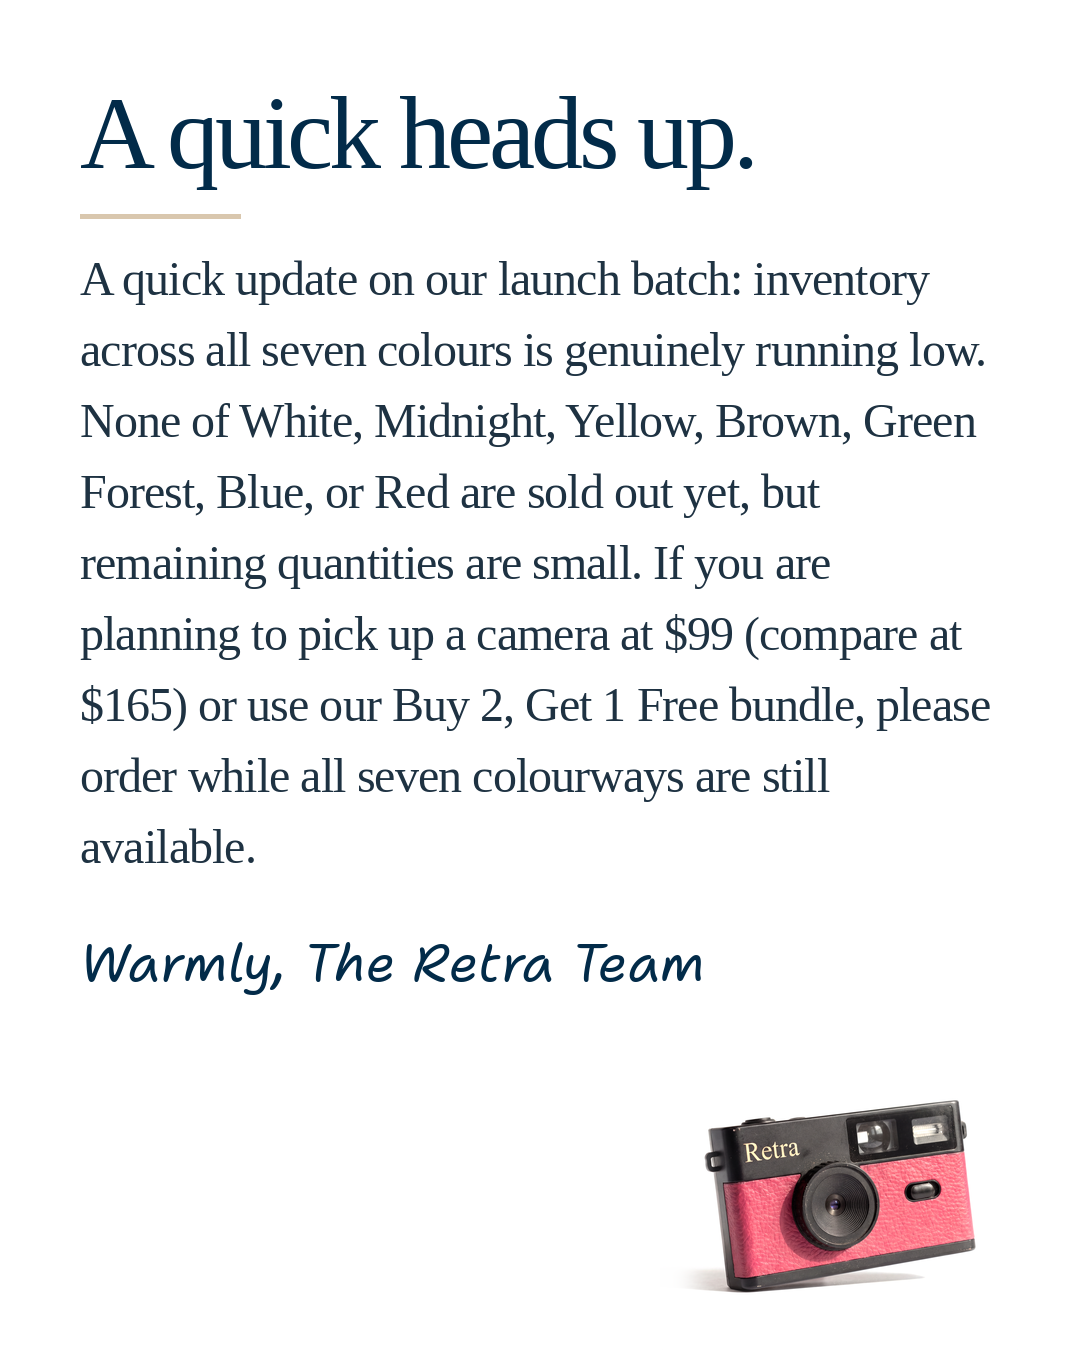
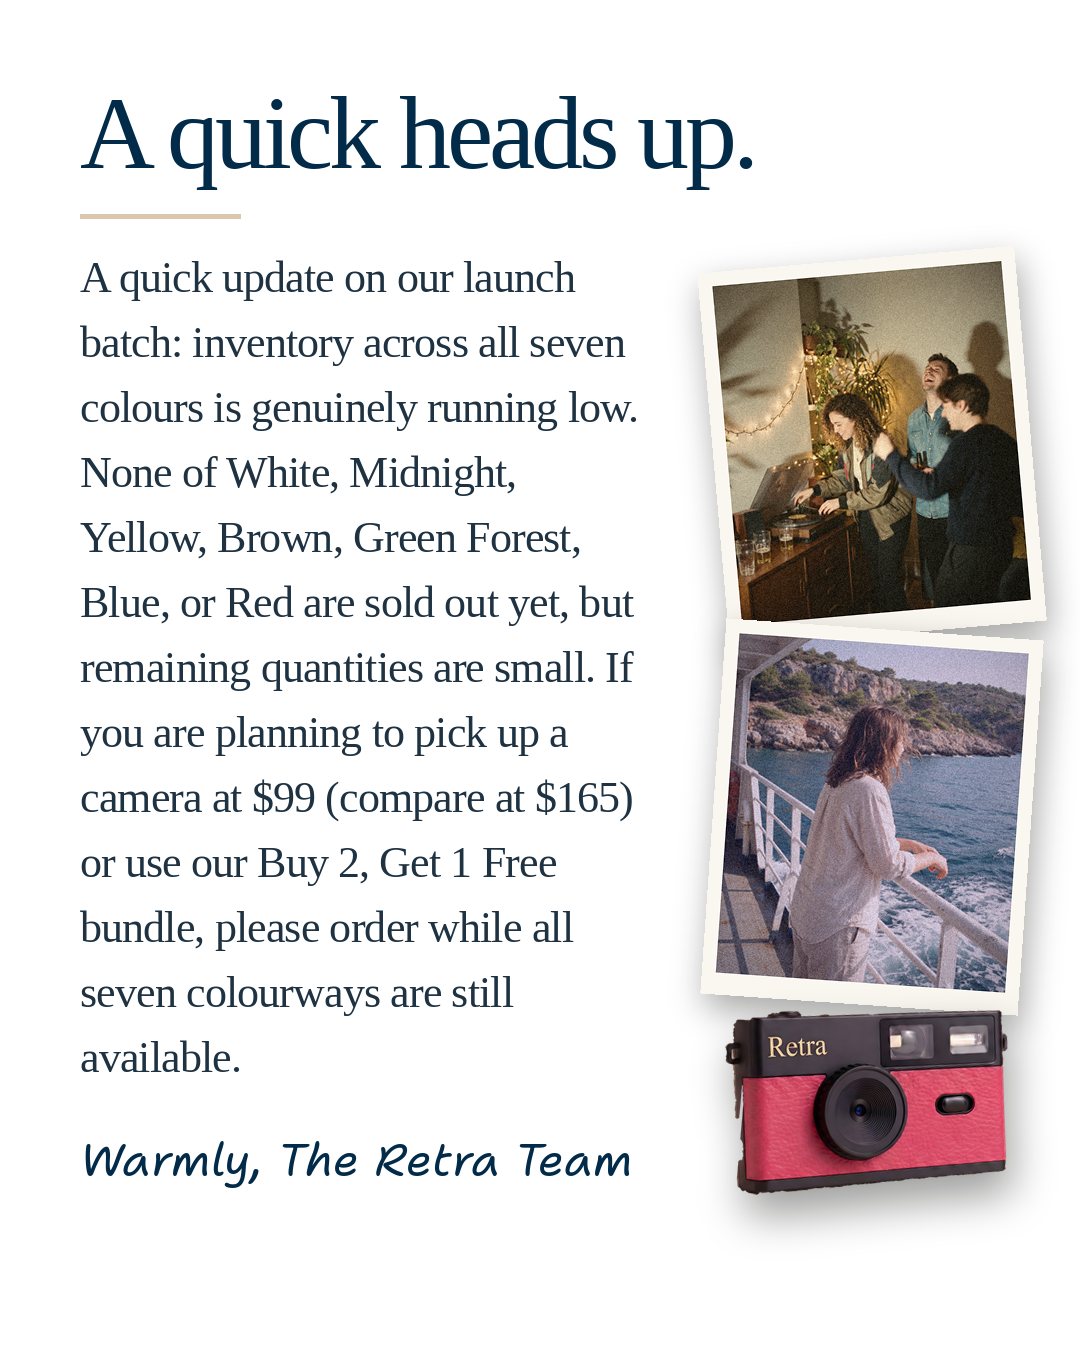
Retra W49: side sample prints on letters 15/50, printed photos + screen-free headline on 34, camera centred on D2
Claude-Session: https://claude.ai/code/session_01Mp8pTs9zpTh5aGe4znSQmT

diff --git a/ads/brands/retra/weeks/2026-W49-angles/b2.py b/ads/brands/retra/weeks/2026-W49-angles/b2.py
@@ -16,7 +16,7 @@ from scenes import tiktok_caption
 
 HERE = Path(__file__).resolve().parent
 COPY.update({c["id"]: c for c in json.load(open(HERE / "copy_b2.json"))["concepts"]})
-PICK = {"s30a": "s30a_t2", "s32": "s32_t2", "s36": "s36_t3", "s42a": "s42a_t2", "s56a": "s56a_t2"}
+PICK = {"s34": "s34b_t1", "s30a": "s30a_t2", "s32": "s32_t2", "s36": "s36_t3", "s42a": "s42a_t2", "s56a": "s56a_t2"}
 WARM = (247, 240, 226)
 
 
@@ -260,24 +260,30 @@ def b59(c):
 
 
 # ---------------------------------------------------------------- white layouts with product photos
-def letter(c, title_k, body_k, close_k, product_name):
+def letter(c, title_k, body_k, close_k, product_name, side=False):
+    from layouts import side_column
     img = canvas(WHITE)
     y = head(img, S(c, title_k), 350, INK, 92, 60, 2, x=80, w=920, align="left")
     ImageDraw.Draw(img).line([(80, y + 14), (240, y + 14)], fill=SAND, width=5)
     y += 50
+    top = int(y)
+    TW = 560 if side else 920
     body = S(c, body_k)
     size = 46
-    while size > 28:
+    while size > 26:
         f = tinos(size, -0.02)
-        need = len(wrap(body, f, 920)) * sum(f.getmetrics()) * 1.32
-        if y + need < 1320:
+        need = len(wrap(body, f, TW)) * sum(f.getmetrics()) * 1.3
+        if y + need < (1500 if side else 1320):
             break
         size -= 1
     f = tinos(size, -0.02)
-    y = draw_lines(img, wrap(body, f, 920), f, 80, y, (30, 50, 66), "left", 1.32, None, 920)
+    y = draw_lines(img, wrap(body, f, TW), f, 80, y, (30, 50, 66), "left", 1.3, None, TW)
     if close_k:
-        draw_lines(img, [S(c, close_k)], shantell(48), 80, y + 24, INK, "left", 1.0, None, 700)
-    prod(img, product_name, 340, W - 230, 1500)
+        draw_lines(img, [S(c, close_k)], shantell(46 if side else 48), 80, y + 24, INK, "left", 1.0, None, TW)
+    if side:
+        side_column(img, top - 10, product_name.replace("p34_", ""))
+    else:
+        prod(img, product_name, 340, W - 230, 1500)
     return img
 
 
@@ -290,7 +296,7 @@ def b44(c):
 
 
 def b50(c):
-    return letter(c, "title", "body", "signoff", "p34_blossom")
+    return letter(c, "title", "body", "signoff", "p34_sol", side=True)
 
 
 def b24(c):
@@ -427,7 +433,7 @@ def b34(c):
     img = canvas(WHITE)
     y = head(img, S(c, "headline"), 350, INK, 96, 62, 2)
     sub(img, S(c, "sub"), y + 10)
-    photo(img, "s34", (90, 760, 990, 1560), (0.55, 0.5), 28)
+    photo(img, "s34", (90, 740, 990, 1580), (0.5, 0.9), 28)
     return img
 
 

diff --git a/ads/brands/retra/weeks/2026-W49-angles/layouts.py b/ads/brands/retra/weeks/2026-W49-angles/layouts.py
@@ -96,6 +96,15 @@ def film_print(key, look, size, crop=None):
     return card
 
 
+def side_column(img, top, colour, cx=872):
+    """Sam: 'what it would look like if they got a Retra' - two tilted sample prints in Retra looks, camera below."""
+    prints = [("party", "Vintage", 5, top + 205), ("ferry", "Film", -4, top + 575)]
+    for key, look, rot, cy in prints:
+        card = film_print(key, look, (290, 340)).rotate(rot, Image.BICUBIC, expand=True)
+        place(img, card, cx, cy, shadow=0.35, blur=16, drop=(4, 14))
+    place(img, cam(colour, 290, -5), cx - 6, min(top + 860, 1500), shadow=0.4, blur=20, drop=(6, 22))
+    lib.TEXT_BOXES.append((cx - 180, top, cx + 180, top + 960))
+
 def a02(cid):
     img = paper((44, 33, 26), seed=2, amt=3)
     # warm smoky glow
@@ -289,26 +298,27 @@ def a14(cid):
 def a15(cid):
     img = canvas(WHITE)
     d = ImageDraw.Draw(img)
+    TW = 560  # text column; the right column shows sample prints + the camera
     y = text_block(img, S(cid, "title", "We're sorry."), lambda s: tinos(s, -0.04), 80, 360, 920, 2, 104, 70, INK)
     d.line([(80, y + 14), (240, y + 14)], fill=SAND, width=5)
     y += 50
+    top = int(y)
     body = S(cid, "body", "Body copy here.")
     paras = [p.strip() for p in body.split("\n") if p.strip()]
     fb = lambda s: tinos(s, -0.02)
-    size = 48
-    while size > 28:  # one size for every paragraph so the block fits above the product
+    size = 44
+    while size > 26:  # one size for every paragraph so the block fits above the sign-off
         f = fb(size)
-        need = sum(len(wrap(p, f, 920)) for p in paras) * (sum(f.getmetrics()) * 1.32) + 26 * len(paras)
-        if y + need < 1330:
+        need = sum(len(wrap(p, f, TW)) for p in paras) * (sum(f.getmetrics()) * 1.3) + 22 * len(paras)
+        if y + need < 1500:
             break
         size -= 1
     f = fb(size)
     for p in paras:
-        y = draw_lines(img, wrap(p, f, 920), f, 80, y, (30, 50, 66), "left", 1.32, None, 920) + 26
+        y = draw_lines(img, wrap(p, f, TW), f, 80, y, (30, 50, 66), "left", 1.3, None, TW) + 22
     so = S(cid, "signoff", "The Retra team")
-    fs = shantell(52)
-    draw_lines(img, [so], fs, 80, y + 10, INK, "left", 1.0, None, 900)
-    prod(img, "p34_blossom", 360, W - 240, 1490)
+    draw_lines(img, [so], shantell(46), 80, y + 10, INK, "left", 1.0, None, TW)
+    side_column(img, top - 10, "blossom")
     return img
 
 

diff --git a/ads/brands/retra/weeks/2026-W49-angles/edit34.py b/ads/brands/retra/weeks/2026-W49-angles/edit34.py
@@ -1,0 +1,31 @@
+"""34 v2: same gift-bow scene, plus a few printed candid photos on the table (Sam, 2026-11-27); ribbon off the wordmark.
+python3 edit34.py  -> renders/s34b_t<n>.png (two takes)"""
+import json
+from concurrent.futures import ThreadPoolExecutor
+import render
+from render import kie, OUT
+
+base = kie.upload(OUT / "s34_t1.png", "retra")
+P = ("Edit the first image, keeping it a real, natural product photo with the same light, hands, mug, white table and"
+     " olive-green Retra camera (the second image shows the exact camera). Changes: (1) move the red satin ribbon and"
+     " bow so it wraps the camera's left end and does NOT cover the gold serif 'Retra' wordmark on the black top band"
+     " - the full wordmark must be clearly readable; (2) add three small 4x6 photo prints with thin white borders"
+     " lying casually on the table in the foreground and to the left of the camera, slightly overlapping, showing"
+     " warm candid moments: friends laughing at a dinner table, a child in a snowy garden, a couple hugging on a beach."
+     " Keep everything else identical. No text, captions or logos on the prints.")
+
+
+def go(_):
+    n = render.next_try("s34b")
+    inp = {"prompt": P, "image_input": [base, render.ref_url("pine")], "aspect_ratio": "1:1", "resolution": "4K",
+           "output_format": "png"}
+    tid = kie.create("nano-banana-pro", inp)
+    path = kie.download(kie.wait(tid)[0], OUT / f"s34b_t{n}.png")
+    with open(OUT / "_usage.jsonl", "a") as f:
+        f.write(json.dumps({"ad": "s34b", "try": n, "task_id": tid, "model": "nano-banana-pro", "edit_of": "s34_t1",
+                            "prompt": P}) + "\n")
+    print("done", path.name, flush=True)
+
+
+for i in range(2):  # sequential so take numbers don't collide
+    go(i)

diff --git a/ads/brands/retra/weeks/2026-W49-angles/disney.py b/ads/brands/retra/weeks/2026-W49-angles/disney.py
@@ -93,6 +93,8 @@ def d2(c):
         off = (18 + 360 + 42) - (18 + 360 + 84) / 2  # card centre -> caption strip centre
         img.alpha_composite(tmp, (int(cx + off * math.sin(r) - tmp.width / 2), int(cy + off * math.cos(r) - tmp.height / 2)))
         lib.TEXT_BOXES.append((cx - 210, cy, cx + 210, cy + 300))
+    # Sam: camera in the middle of the four prints
+    place(img, cam("sol", 310, -6), W / 2, top + 585, shadow=0.45, blur=22, drop=(6, 24))
     return img
 
 
